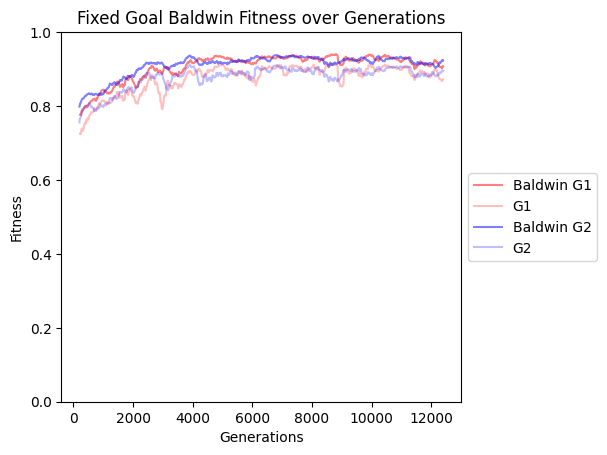
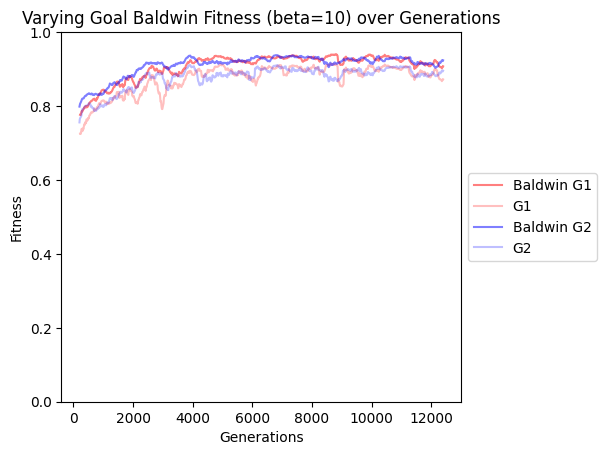
title change

Changed region(s): [[0.0297, 0.0, 0.8303, 0.0615]]

diff --git a/plotter.py b/plotter.py
@@ -122,7 +122,7 @@ def drawaverage():
     # plt.plot(data[window_size - 1:, 0], maleable_moving_avg, label='Plasticity (Moving Avg)', color='#00aa00')
 
 
-    plt.title("Fixed Goal Baldwin Fitness over Generations")
+    plt.title("Varying Goal Baldwin Fitness (beta=10) over Generations")
 
     plt.xlabel('Generations')
     plt.ylabel('Fitness')
